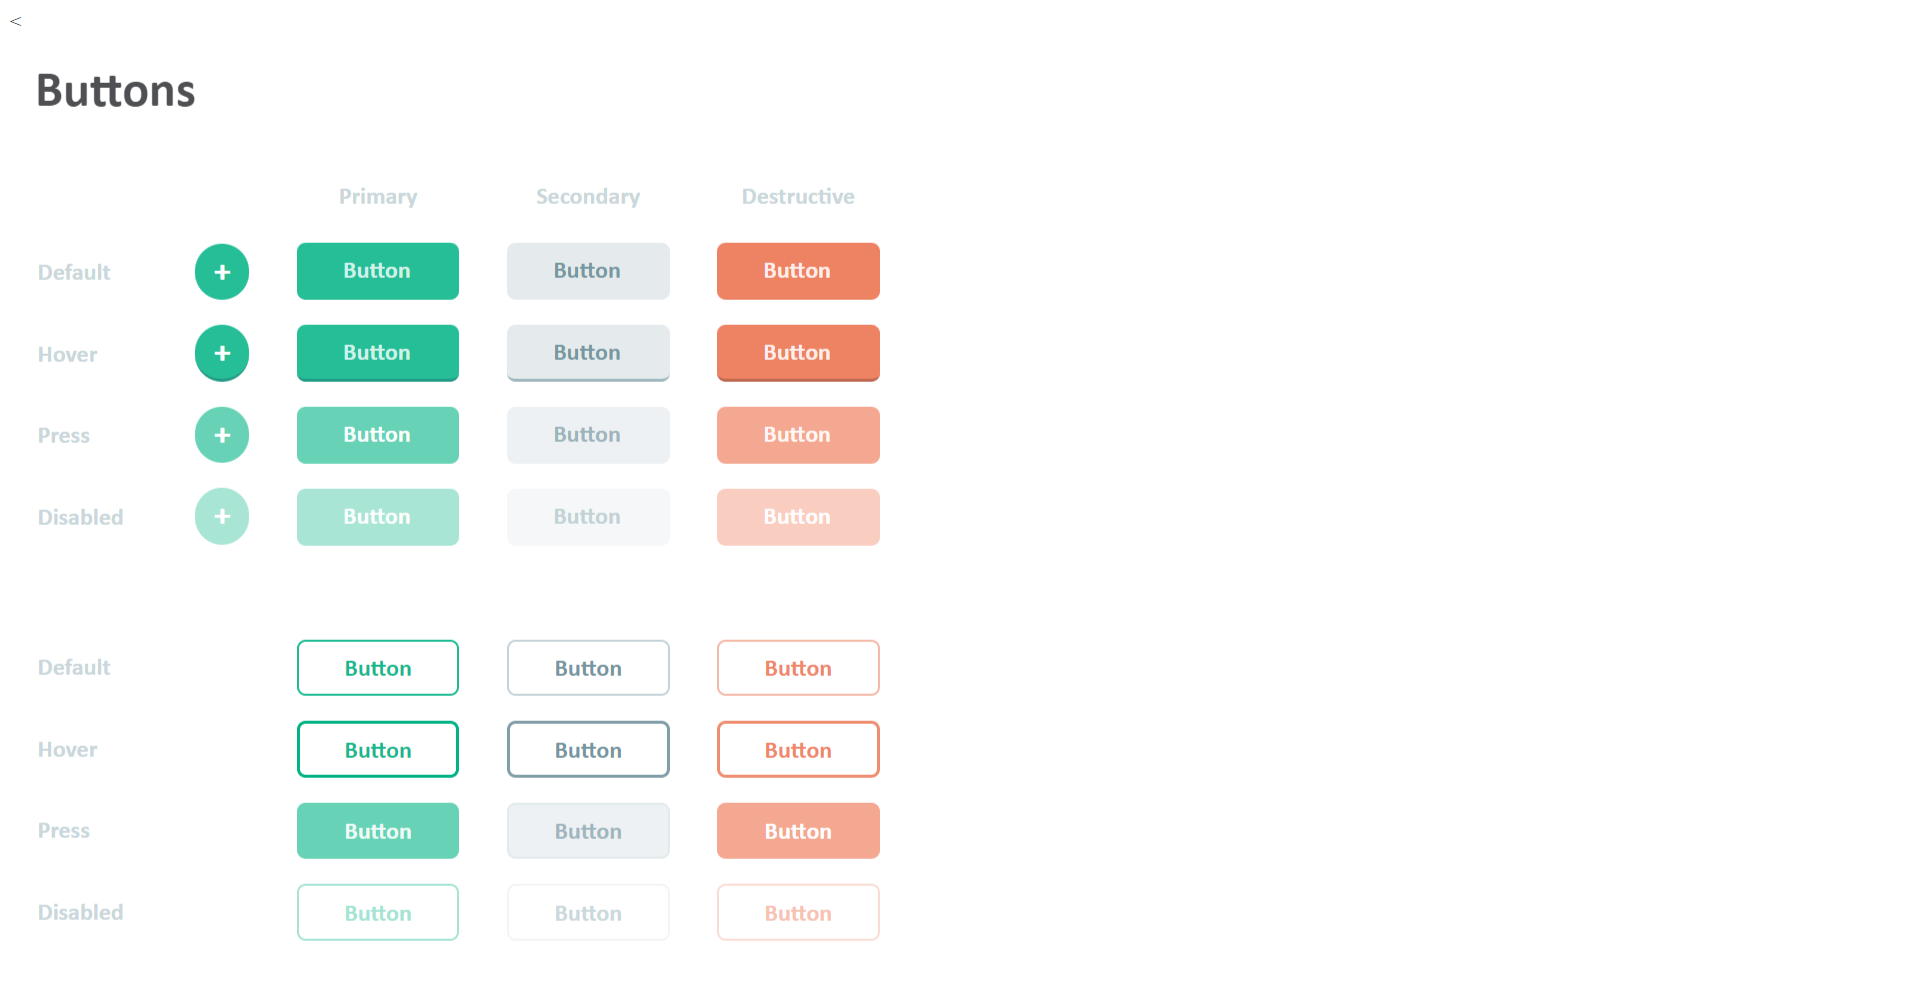
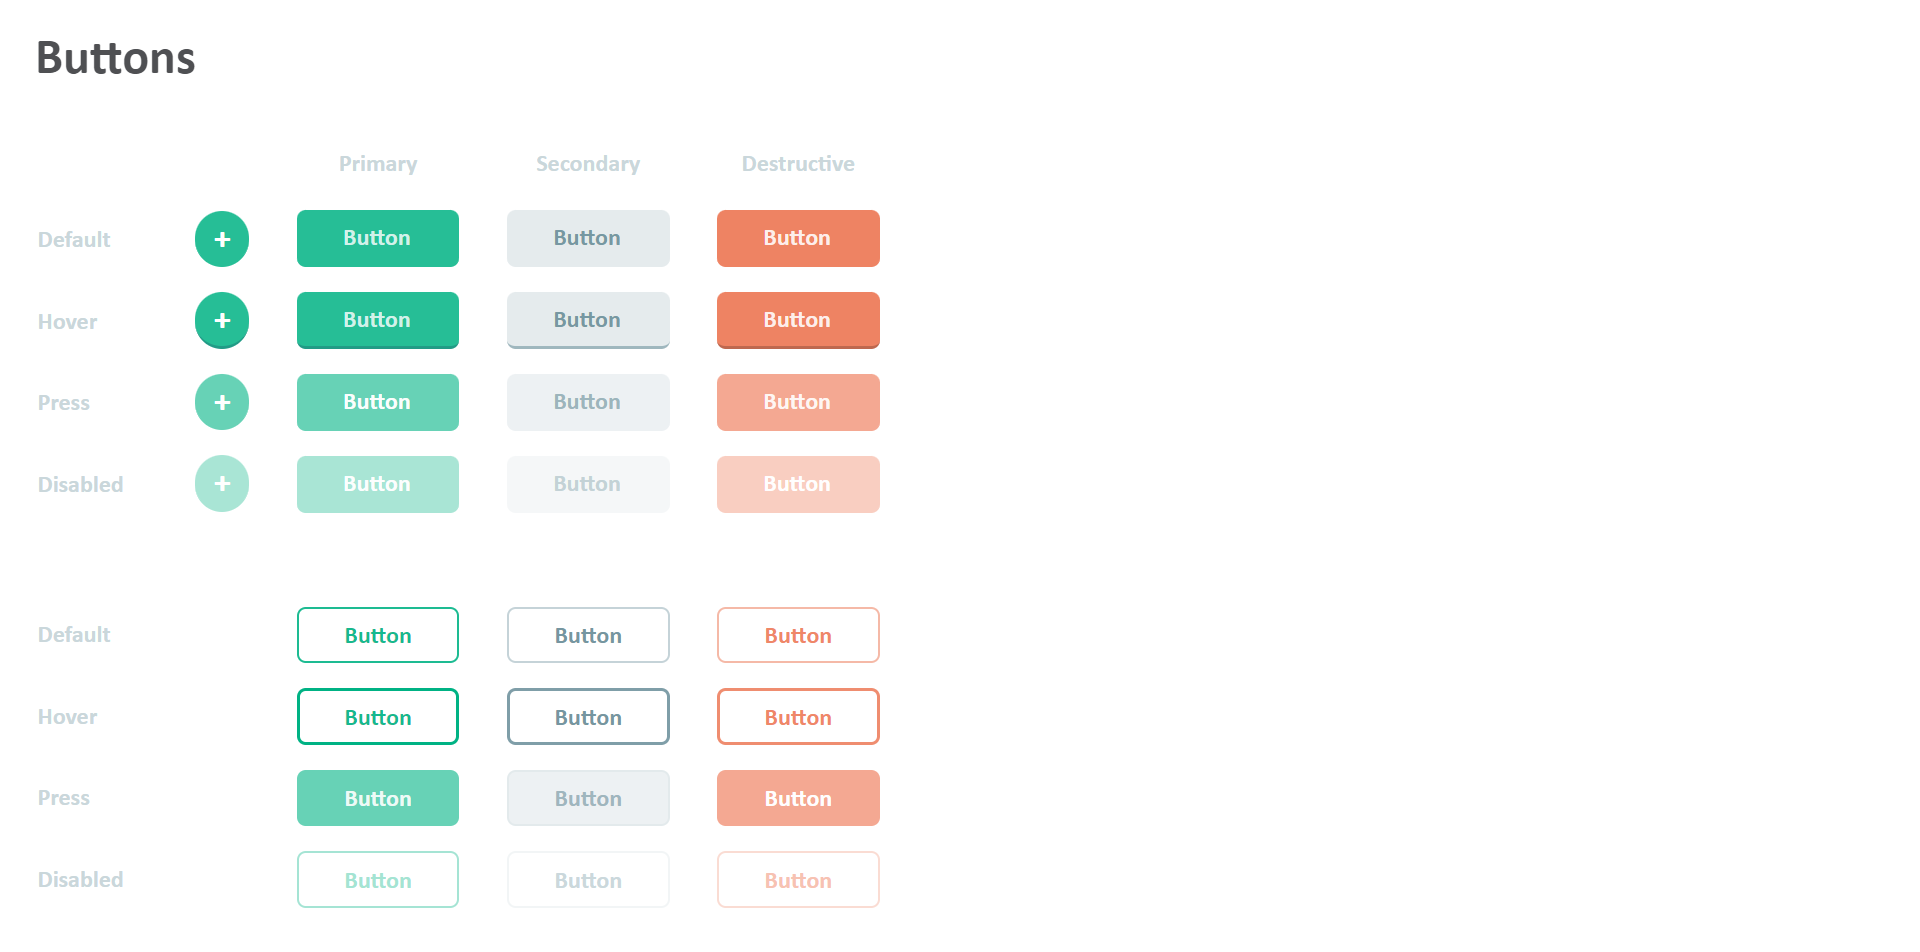
< removed

diff --git a/Lab/Lab2/index.html b/Lab/Lab2/index.html
@@ -7,7 +7,7 @@
     <title>Document</title>
     <link href="style.css" rel="stylesheet" />
 </head>
-<body><
+<body>
     <p>Buttons</p>
     <br />
     <section>
